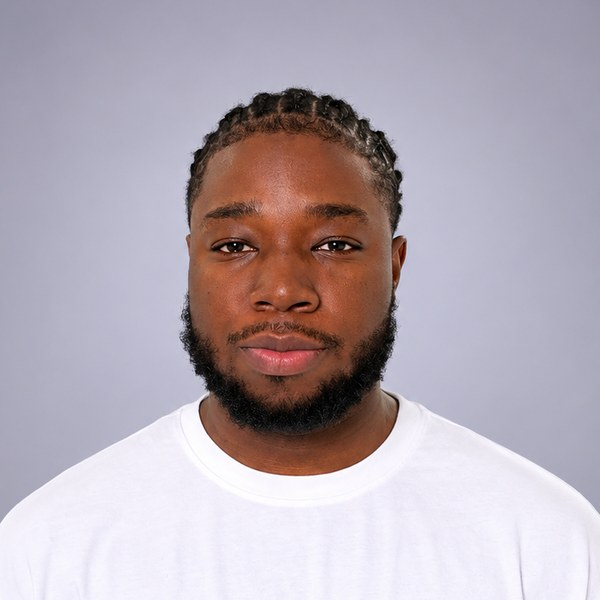
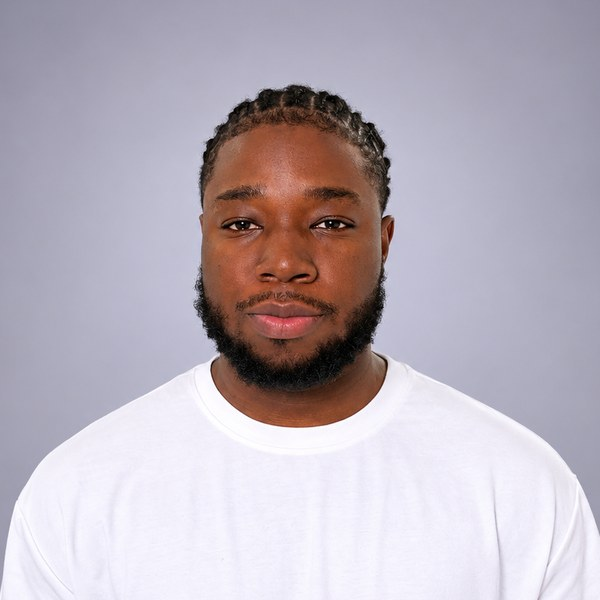
Nouvelle photo de profil

diff --git a/index.html b/index.html
@@ -7,7 +7,7 @@
 <meta name="description" content="Adiel Sanga, ingénieur logiciel et DevOps basé à Paris, mobile dans toute la France : applications web et mobiles, API, CI/CD, conteneurs, cloud et supervision.">
 <meta property="og:title" content="Adiel Sanga · Ingénieur logiciel et DevOps">
 <meta property="og:description" content="Applications web et mobiles, API, CI/CD, conteneurs, cloud et supervision.">
-<meta property="og:image" content="assets/adiel-sanga.jpg">
+<meta property="og:image" content="assets/adiel-sanga.jpg?v=3">
 <script>try{const t=localStorage.getItem("theme");if(t)document.documentElement.dataset.theme=t}catch(e){}</script>
 <link rel="icon" href="assets/favicon.svg" type="image/svg+xml">
 <link rel="preconnect" href="https://fonts.googleapis.com">
@@ -23,7 +23,7 @@
 </header>
 <main>
   <section class="hero-lite">
-    <picture><source srcset="assets/adiel-sanga.webp" type="image/webp"><img class="avatar" src="assets/adiel-sanga.jpg" alt="Portrait d'Adiel Sanga" width="600" height="600"></picture>
+    <picture><source srcset="assets/adiel-sanga.webp?v=3" type="image/webp"><img class="avatar" src="assets/adiel-sanga.jpg?v=3" alt="Portrait d'Adiel Sanga" width="600" height="600"></picture>
     <h1 class="salut">Adiel Sanga<br><span>Ingénieur logiciel et DevOps.</span></h1>
     <p class="intro">Basé à Paris, mobile dans toute la France. Je conçois des applications web et mobiles de bout en bout, et j'industrialise leur livraison : CI/CD, conteneurs, cloud et supervision, en <a href="a-propos">méthodologie Agile</a>.</p>
     <ul class="chiffres"><li><b>3 ans</b> d'expérience</li><li><b>Bac+5</b> ingénieur CTI</li><li><b>−40 %</b> d'incidents en production</li></ul>

diff --git a/experience/optimum-tracker-alternance.html b/experience/optimum-tracker-alternance.html
@@ -7,7 +7,7 @@
 <meta name="description" content="Ingénieur DevOps, stage puis alternance, chez Optimum Tracker : contexte, besoin, solution et résultat.">
 <meta property="og:title" content="Ingénieur DevOps, stage puis alternance, chez Optimum Tracker · Adiel Sanga">
 <meta property="og:description" content="Applications web et mobiles, API, CI/CD, conteneurs, cloud et supervision.">
-<meta property="og:image" content="assets/adiel-sanga.jpg">
+<meta property="og:image" content="assets/adiel-sanga.jpg?v=3">
 <script>try{const t=localStorage.getItem("theme");if(t)document.documentElement.dataset.theme=t}catch(e){}</script>
 <link rel="icon" href="/assets/favicon.svg" type="image/svg+xml">
 <link rel="preconnect" href="https://fonts.googleapis.com">

diff --git a/experiences.html b/experiences.html
@@ -7,7 +7,7 @@
 <meta name="description" content="Parcours d'Adiel Sanga : Dooke Consulting et Optimum Tracker, en contexte, besoin, solution et résultat.">
 <meta property="og:title" content="Adiel Sanga · Ingénieur logiciel et DevOps">
 <meta property="og:description" content="Applications web et mobiles, API, CI/CD, conteneurs, cloud et supervision.">
-<meta property="og:image" content="assets/adiel-sanga.jpg">
+<meta property="og:image" content="assets/adiel-sanga.jpg?v=3">
 <script>try{const t=localStorage.getItem("theme");if(t)document.documentElement.dataset.theme=t}catch(e){}</script>
 <link rel="icon" href="assets/favicon.svg" type="image/svg+xml">
 <link rel="preconnect" href="https://fonts.googleapis.com">

diff --git a/experience/dooke.html b/experience/dooke.html
@@ -7,7 +7,7 @@
 <meta name="description" content="Ingénieur DevOps chez Dooke Consulting : contexte, besoin, solution et résultat.">
 <meta property="og:title" content="Ingénieur DevOps chez Dooke Consulting · Adiel Sanga">
 <meta property="og:description" content="Applications web et mobiles, API, CI/CD, conteneurs, cloud et supervision.">
-<meta property="og:image" content="assets/adiel-sanga.jpg">
+<meta property="og:image" content="assets/adiel-sanga.jpg?v=3">
 <script>try{const t=localStorage.getItem("theme");if(t)document.documentElement.dataset.theme=t}catch(e){}</script>
 <link rel="icon" href="/assets/favicon.svg" type="image/svg+xml">
 <link rel="preconnect" href="https://fonts.googleapis.com">

diff --git a/experience/optimum-tracker.html b/experience/optimum-tracker.html
@@ -7,7 +7,7 @@
 <meta name="description" content="Ingénieur DevOps chez Optimum Tracker : contexte, besoin, solution et résultat.">
 <meta property="og:title" content="Ingénieur DevOps chez Optimum Tracker · Adiel Sanga">
 <meta property="og:description" content="Applications web et mobiles, API, CI/CD, conteneurs, cloud et supervision.">
-<meta property="og:image" content="assets/adiel-sanga.jpg">
+<meta property="og:image" content="assets/adiel-sanga.jpg?v=3">
 <script>try{const t=localStorage.getItem("theme");if(t)document.documentElement.dataset.theme=t}catch(e){}</script>
 <link rel="icon" href="/assets/favicon.svg" type="image/svg+xml">
 <link rel="preconnect" href="https://fonts.googleapis.com">

diff --git a/projets.html b/projets.html
@@ -7,7 +7,7 @@
 <meta name="description" content="Side projects d'Adiel Sanga : GoWithMe, SplitEase, Lab DevOps, Ça joue et Doodle Video.">
 <meta property="og:title" content="Adiel Sanga · Ingénieur logiciel et DevOps">
 <meta property="og:description" content="Applications web et mobiles, API, CI/CD, conteneurs, cloud et supervision.">
-<meta property="og:image" content="assets/adiel-sanga.jpg">
+<meta property="og:image" content="assets/adiel-sanga.jpg?v=3">
 <script>try{const t=localStorage.getItem("theme");if(t)document.documentElement.dataset.theme=t}catch(e){}</script>
 <link rel="icon" href="assets/favicon.svg" type="image/svg+xml">
 <link rel="preconnect" href="https://fonts.googleapis.com">

diff --git a/a-propos.html b/a-propos.html
@@ -7,7 +7,7 @@
 <meta name="description" content="Profil, compétences et formation d'Adiel Sanga, ingénieur logiciel et DevOps.">
 <meta property="og:title" content="Adiel Sanga · Ingénieur logiciel et DevOps">
 <meta property="og:description" content="Applications web et mobiles, API, CI/CD, conteneurs, cloud et supervision.">
-<meta property="og:image" content="assets/adiel-sanga.jpg">
+<meta property="og:image" content="assets/adiel-sanga.jpg?v=3">
 <script>try{const t=localStorage.getItem("theme");if(t)document.documentElement.dataset.theme=t}catch(e){}</script>
 <link rel="icon" href="assets/favicon.svg" type="image/svg+xml">
 <link rel="preconnect" href="https://fonts.googleapis.com">

diff --git a/projet/doodle-video.html b/projet/doodle-video.html
@@ -7,7 +7,7 @@
 <meta name="description" content="Doodle Video, side project d'Adiel Sanga.">
 <meta property="og:title" content="Doodle Video · Adiel Sanga">
 <meta property="og:description" content="Applications web et mobiles, API, CI/CD, conteneurs, cloud et supervision.">
-<meta property="og:image" content="assets/adiel-sanga.jpg">
+<meta property="og:image" content="assets/adiel-sanga.jpg?v=3">
 <script>try{const t=localStorage.getItem("theme");if(t)document.documentElement.dataset.theme=t}catch(e){}</script>
 <link rel="icon" href="/assets/favicon.svg" type="image/svg+xml">
 <link rel="preconnect" href="https://fonts.googleapis.com">

diff --git a/projet/lab-devops.html b/projet/lab-devops.html
@@ -7,7 +7,7 @@
 <meta name="description" content="Lab DevOps, side project d'Adiel Sanga.">
 <meta property="og:title" content="Lab DevOps · Adiel Sanga">
 <meta property="og:description" content="Applications web et mobiles, API, CI/CD, conteneurs, cloud et supervision.">
-<meta property="og:image" content="assets/adiel-sanga.jpg">
+<meta property="og:image" content="assets/adiel-sanga.jpg?v=3">
 <script>try{const t=localStorage.getItem("theme");if(t)document.documentElement.dataset.theme=t}catch(e){}</script>
 <link rel="icon" href="/assets/favicon.svg" type="image/svg+xml">
 <link rel="preconnect" href="https://fonts.googleapis.com">

diff --git a/projet/splitease.html b/projet/splitease.html
@@ -7,7 +7,7 @@
 <meta name="description" content="SplitEase, side project d'Adiel Sanga.">
 <meta property="og:title" content="SplitEase · Adiel Sanga">
 <meta property="og:description" content="Applications web et mobiles, API, CI/CD, conteneurs, cloud et supervision.">
-<meta property="og:image" content="assets/adiel-sanga.jpg">
+<meta property="og:image" content="assets/adiel-sanga.jpg?v=3">
 <script>try{const t=localStorage.getItem("theme");if(t)document.documentElement.dataset.theme=t}catch(e){}</script>
 <link rel="icon" href="/assets/favicon.svg" type="image/svg+xml">
 <link rel="preconnect" href="https://fonts.googleapis.com">

diff --git a/projet/ca-joue.html b/projet/ca-joue.html
@@ -7,7 +7,7 @@
 <meta name="description" content="Ça joue, side project d'Adiel Sanga.">
 <meta property="og:title" content="Ça joue · Adiel Sanga">
 <meta property="og:description" content="Applications web et mobiles, API, CI/CD, conteneurs, cloud et supervision.">
-<meta property="og:image" content="assets/adiel-sanga.jpg">
+<meta property="og:image" content="assets/adiel-sanga.jpg?v=3">
 <script>try{const t=localStorage.getItem("theme");if(t)document.documentElement.dataset.theme=t}catch(e){}</script>
 <link rel="icon" href="/assets/favicon.svg" type="image/svg+xml">
 <link rel="preconnect" href="https://fonts.googleapis.com">

diff --git a/projet/gowithme.html b/projet/gowithme.html
@@ -7,7 +7,7 @@
 <meta name="description" content="GoWithMe, side project d'Adiel Sanga.">
 <meta property="og:title" content="GoWithMe · Adiel Sanga">
 <meta property="og:description" content="Applications web et mobiles, API, CI/CD, conteneurs, cloud et supervision.">
-<meta property="og:image" content="assets/adiel-sanga.jpg">
+<meta property="og:image" content="assets/adiel-sanga.jpg?v=3">
 <script>try{const t=localStorage.getItem("theme");if(t)document.documentElement.dataset.theme=t}catch(e){}</script>
 <link rel="icon" href="/assets/favicon.svg" type="image/svg+xml">
 <link rel="preconnect" href="https://fonts.googleapis.com">
